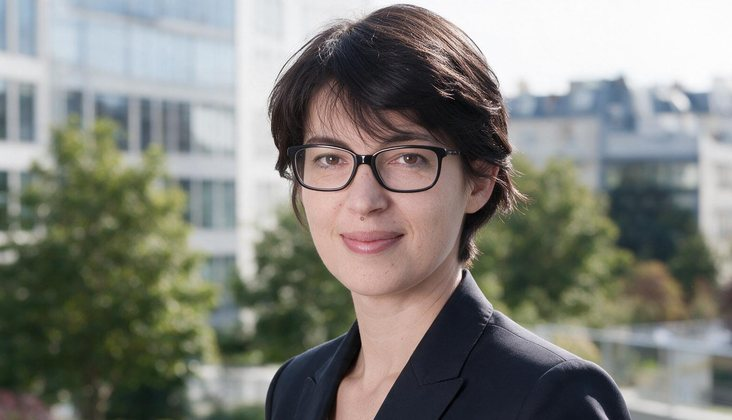
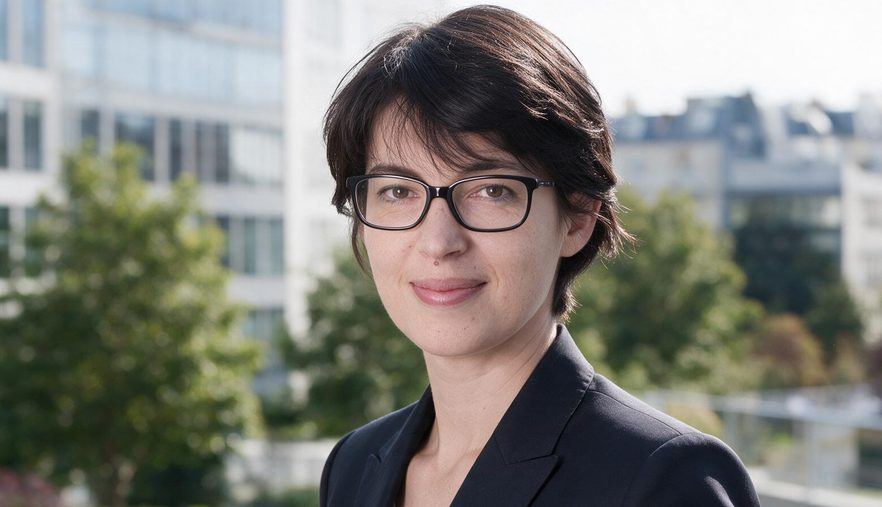
Build Le Cabinet's Interlocuteurs — a fourth shape, and one promoted photo
`13701:24212` is white on `py-96` with the familiar 10 / 14 / 44 head chain and
an Inter 16 lead, then a `lawgrid` on a 48 gap: **two 350 author cards beside
the arch illustration**, then a partners block that is names and roles only,
with no photographs at all.

**None of the other three Interlocuteurs ports.** The article's is two stacked
full-width cards, the e-commerce page copies those, and the service page draws
one full-width lawcard over three partner cards. Read each frame.

The row is `items-start` with no `self-stretch`, so Figma ends the cards at 498
and 475 — their own heights. Its 81px gaps are what `justify-between` gives for
350 + 350 + 383 in the 1245 band, so they are not stated; `xl:contents` lets
the two cards become direct children of that row.

**Its illustration is the FAQ composition, coordinate for coordinate** — arch
313x400 at (70.5, 8), sparkle 46 at (49, -4), laurel 120x150 at (421.5, 335.5),
which is what Figma's inset percentages resolve to on the 383x440 box. It
differs in exactly two things: the arch's bottom corners are rounded 25.04
rather than square, and it carries a `0px 15.024px 13.772px` drop shadow.

Assets — three reuses and one promotion:

- `paris-scene.svg` at 313x400.64, an exact **1.0016** of its own 312.5x400
  with all five stroke widths scaling with it (5 -> 5.008, 6.25 -> 6.26), so no
  fork. Note it is the *Contentieux* FAQ scene, not one of the newer ones.
[…]

diff --git a/src/components/sections/le-cabinet/Interlocuteurs.tsx b/src/components/sections/le-cabinet/Interlocuteurs.tsx
@@ -1,0 +1,156 @@
+import Image, { type StaticImageData } from "next/image";
+import { useTranslations } from "next-intl";
+import LaurelBranch from "@/assets/icons/laurel-branch-mint.svg";
+import ParisScene from "@/assets/icons/paris-scene.svg";
+import Sparkle from "@/assets/icons/sparkle.svg";
+import hlebarova from "@/assets/images/hlebarova-portrait.jpg";
+import petrova from "@/assets/images/lawyer-portrait-rail.jpg";
+import { buttonClasses } from "@/components/ui/Button";
+import { Container } from "@/components/ui/Container";
+import { MaybeLink } from "@/components/ui/MaybeLink";
+import { cabinetPartners, cabinetPeople } from "@/lib/le-cabinet";
+
+const photos: Record<(typeof cabinetPeople)[number]["key"], StaticImageData> = {
+  petrova,
+  hlebarova,
+};
+
+/**
+ * Figma `13701:24212` — "Vos interlocuteurs", a white band on `py-96`.
+ *
+ * **A fourth Interlocuteurs shape**, and none of the other three ports: the
+ * article's is two stacked full-width cards, the e-commerce page copies those,
+ * and the service page draws one full-width lawcard over three partner cards.
+ * This one is **two 350 author cards beside the arch illustration**, then a
+ * partners block that is names and roles only — no photographs at all.
+ *
+ * Its head is the same 10 / 14 / 44 chain the service and e-commerce blocks
+ * use, and its lead is Inter 16, not 18.
+ *
+ * The row is `items-start` and neither card carries `self-stretch`, so Figma
+ * ends them at 498 and 475 — their own heights, not one levelled row.
+ */
+export function Interlocuteurs() {
+  const shared = useTranslations("Interlocuteurs");
+  const t = useTranslations("CabinetPage.interlocuteurs");
+
+  return (
+    /* The laurel bleeds past the container's right edge, as it does in every
+       FAQ illustration on the site. */
+    <section className="overflow-hidden bg-white">
+      <Container className="py-16 lg:py-24">
+        <p className="text-overline font-poppins text-brique uppercase">
+          {shared("overline")}
+        </p>
+        <h2 className="text-h2 text-encre mt-2.5">{shared("title")}</h2>
+        <p className="text-small text-encre/62 mt-3.5">{shared("lead")}</p>
+
+        <div className="mt-8 flex flex-col gap-9 lg:mt-11 lg:gap-12">
+          <div className="flex flex-col gap-9 xl:flex-row xl:items-start xl:justify-between">
+            {/* `xl:contents` lets the two cards become direct children of the
+                justify-between row, so Figma's 81px gaps fall out of the 1245
+                band rather than being stated. */}
+            <div className="flex flex-col gap-9 sm:flex-row xl:contents">
+              {cabinetPeople.map(({ key, href }) => (
+                <article
+                  key={key}
+                  className="border-encre/8 flex min-w-0 flex-1 flex-col items-center gap-6 overflow-hidden rounded-tl-[80px] rounded-tr-[18px] rounded-br-[60px] rounded-bl-[18px] border bg-white p-7 xl:w-87.5 xl:flex-none"
+                >
+                  <Image
+                    src={photos[key]}
+                    alt={t(`photoAlt.${key}`)}
+                    sizes="(min-width: 1280px) 294px, 100vw"
+                    className="h-42.25 w-full rounded-tl-[59.854px] rounded-tr-[2.993px] rounded-br-[29.927px] rounded-bl-[17.956px] object-cover"
+                  />
+
+                  <div className="flex w-full flex-col gap-6">
+                    <div className="flex flex-col gap-2">
+                      <p className="text-h3 font-poppins text-encre">
+                        {t(`people.${key}.name`)}
+                      </p>
+                      <p className="text-small-strong text-periwinkle">
+                        {t(`people.${key}.role`)}
+                      </p>
+                      <p className="text-small text-encre/62">
+                        {t(`people.${key}.bio`)}
+                      </p>
+                    </div>
+
+                    {/* Figma's 20/11 padding — `size="sm"` is 20/12, so the 11
+                        is written out. An anchor cannot use `Button`, which is
+                        always a real button element, so it wears the same pill
+                        through `buttonClasses`. */}
+                    <MaybeLink
+                      href={href}
+                      className={buttonClasses({
+                        variant: "outline",
+                        size: "sm",
+                        className: "w-fit py-2.75",
+                      })}
+                    >
+                      {shared("profileCta")}
+                    </MaybeLink>
+                  </div>
+                </article>
+              ))}
+            </div>
+
+            {/*
+              The arch composition, coordinate for coordinate the FAQ
+              illustration this site draws on five other pages — arch 313x400
+              at (70.5, 8), sparkle 46 at (49, -4), laurel 120x150 at
+              (421.5, 335.5), which is what Figma's own inset percentages
+              resolve to on this 383x440 box. It differs in exactly two things:
+              the arch's bottom corners are rounded 25.04 rather than square,
+              and it carries a drop shadow.
+
+              `paris-scene.svg` reuses at 313x400.64 — an exact 1.0016 of its
+              312.5x400, and its five stroke widths scale with it (5 to 5.008,
+              6.25 to 6.26), so no fork.
+            */}
+            <div
+              aria-hidden="true"
+              className="relative hidden h-110 w-95.75 shrink-0 xl:block"
+            >
+              <div className="absolute top-2 left-[70.5px] h-100 w-78.25 overflow-hidden rounded-t-full rounded-b-[25.04px] drop-shadow-[0px_15.024px_13.772px_rgba(33,29,51,0.13)]">
+                <ParisScene
+                  width={313}
+                  height={400.64}
+                  className="absolute top-0 left-0 max-w-none"
+                />
+              </div>
+              <Sparkle
+                width={46}
+                height={46}
+                className="absolute top-[-4px] left-[49px]"
+              />
+              <LaurelBranch
+                width={120}
+                height={150}
+                className="absolute top-[335.5px] left-[421.5px] max-w-none"
+              />
+            </div>
+          </div>
+
+          <div className="flex flex-col gap-6">
+            <p className="text-overline font-poppins text-brique uppercase">
+              {t("partnersLabel")}
+            </p>
+            <ul className="flex flex-wrap gap-x-9 gap-y-6 lg:justify-between">
+              {cabinetPartners.map((key) => (
+                <li key={key} className="flex flex-col gap-2">
+                  <p className="text-h3 font-poppins text-encre">
+                    {t(`partners.${key}.name`)}
+                  </p>
+                  <p className="text-small-strong text-encre/62">
+                    {t(`partners.${key}.role`)}
+                  </p>
+                </li>
+              ))}
+            </ul>
+          </div>
+        </div>
+      </Container>
+    </section>
+  );
+}

diff --git a/src/app/[locale]/le-cabinet/page.tsx b/src/app/[locale]/le-cabinet/page.tsx
@@ -6,6 +6,7 @@ import { Cas } from "@/components/sections/le-cabinet/Cas";
 import { Clients } from "@/components/sections/le-cabinet/Clients";
 import { Domaines } from "@/components/sections/le-cabinet/Domaines";
 import { Hero } from "@/components/sections/le-cabinet/Hero";
+import { Interlocuteurs } from "@/components/sections/le-cabinet/Interlocuteurs";
 import { Methode } from "@/components/sections/le-cabinet/Methode";
 import { MidCTA } from "@/components/sections/le-cabinet/MidCTA";
 import { Secteurs } from "@/components/sections/le-cabinet/Secteurs";
@@ -54,6 +55,7 @@ export default async function CabinetPage({
       <Clients />
       <Cas />
       <MidCTA />
+      <Interlocuteurs />
       <Consultation />
     </>
   );

diff --git a/src/lib/le-cabinet.ts b/src/lib/le-cabinet.ts
@@ -129,3 +129,15 @@ export const clientCountries = [
 
 /** The three case studies, in Figma's order. */
 export const caseStudies = ["blocage", "levee", "marque"] as const;
+
+/**
+ * Figma `13701:24212` — the two people whose cards this page draws, then the
+ * four partners it lists by name and role. Mᵉ Petrova's card links to her
+ * profile page; the rest have none yet, so `MaybeLink` renders them as spans.
+ */
+export const cabinetPeople = [
+  { key: "petrova", href: "/le-cabinet/personal-page" },
+  { key: "hlebarova", href: "/le-cabinet/hlebarova" },
+] as const;
+
+export const cabinetPartners = ["mehandzhiyska", "bazin", "cochet", "willard"] as const;

diff --git a/src/components/sections/service/Interlocuteurs.tsx b/src/components/sections/service/Interlocuteurs.tsx
@@ -156,7 +156,7 @@ export function Interlocuteurs() {
                       {t(`partners.${key}.cta`)}
                     </ConsultButton>
                     <Button variant="outline" size="sm" className="px-5 py-2.75">
-                      {t("profileCta")}
+                      {shared("profileCta")}
                     </Button>
                   </div>
                 </article>
